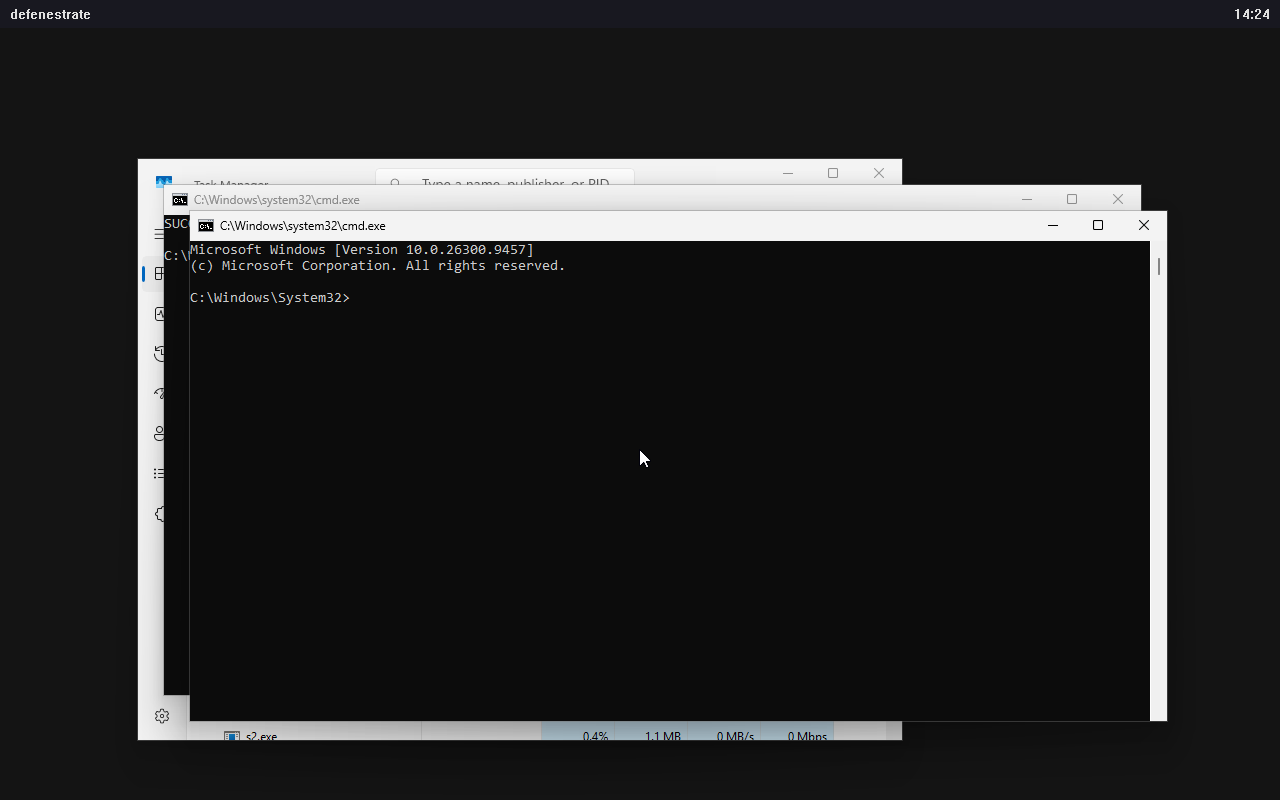
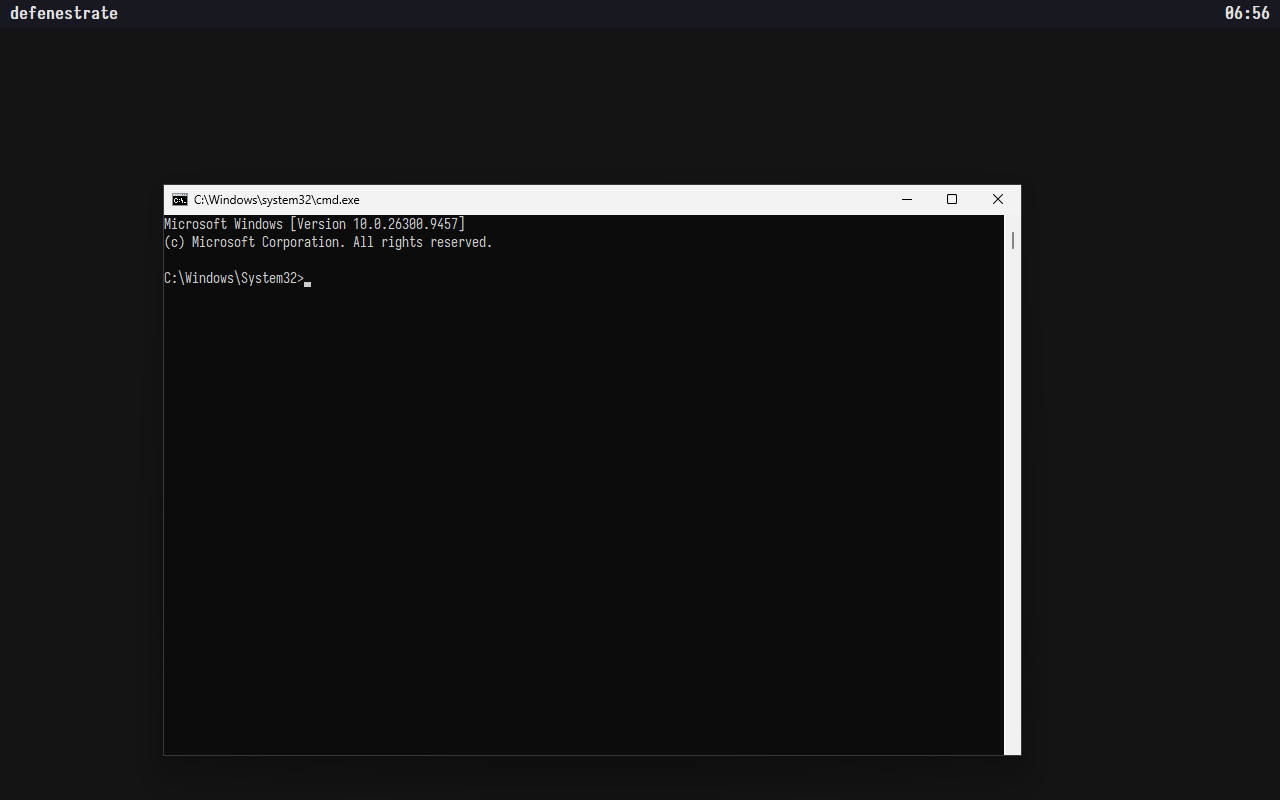
Console: keep conhost as the default terminal
Once Windows Terminal's package is registered for the user, Windows 11
hands new consoles to it, and Terminal ignores HKCU\Console, so cmd came
up in Cascadia Mono instead of Iosevka. Seen booting the flashed image in
QEMU; with %%Startup delegated to conhost, Win+Enter gives conhost in
Iosevka. New first-boot screenshot from that boot.

Changed region(s): [[0.0938, 0.1875, 0.9375, 0.9688], [0.0, 0.0, 0.0938, 0.0312], [0.9375, 0.0, 1.0, 0.0312]]

diff --git a/README.md b/README.md
@@ -7,7 +7,7 @@ the rest of Microsoft's opinions configured away.
 Everything is declared in `configs/` as typed Nix options: edition, locale,
 user, disk layout, replacement shell, and registry values per hive.
 
-![First boot: no explorer, our bar, Win+Enter opened a terminal](docs/first-boot.png)
+![First boot of a flashed image: no explorer, our bar, Win+Enter opened conhost, all in Iosevka](docs/first-boot.png)
 
 ## Status
 
@@ -17,12 +17,13 @@ user, disk layout, replacement shell, and registry values per hive.
 - [x] QEMU test VM with Secure Boot and TPM 2.0
 - [x] Verified install end to end in the VM: unattended setup, specialize registry import, OOBE, first-logon shell switch, our shell running with no explorer.exe
   - Fully hands-off offline (`restrict=on`): a headless run went from the ISO to our shell in ~47 minutes with no input. Online, OOBE's zero-day-patch check fails in the VM and waits for a "Skip" click. On real hardware: install offline, or hit "Try again".
-- [x] Rust shell v0, cross-compiled in the flake (`nix build .#shell`): top bar with a clock and reserved work area, Win+Enter opens a terminal (via a low-level keyboard hook; `RegisterHotKey` can't get Win+Enter even without explorer)
+- [x] Rust shell v0, cross-compiled in the flake (`nix build .#shell`): top bar with a clock and reserved work area, per-monitor DPI aware, Win+Enter opens a terminal (via a low-level keyboard hook; `RegisterHotKey` can't get Win+Enter even without explorer)
+- [x] Iosevka Nerd Font Mono installed system-wide (`fonts`) and used by the bar and every console. Windows 11 hands consoles to Windows Terminal once it's registered, which ignores console fonts, so the default terminal is pinned to conhost
 - [x] libcosmic builds for Windows from Linux (`nix build .#cosmic-bar-prototype`); not run on Windows yet
 - [ ] Shell: system tray, window list, launcher, notifications
 - [ ] Provisioned AppX removal (Outlook, Teams, Copilot, …)
 - [ ] WSL2 with a nix-built kernel and NixOS-WSL, mounting the Linux drives
-- [x] Whole-disk image built in the nix sandbox (`build.image`) and flashed from Linux with no boot media (`build.install`), replacing nixconf's `saturn-windows-image.sh`. Flash-and-boot verified on a disk-sized file; not yet on real hardware
+- [x] Whole-disk image built in the nix sandbox (`build.image`) and flashed from Linux with no boot media (`build.install`), replacing nixconf's `saturn-windows-image.sh`. Flash-and-boot verified on a disk-sized file, and booted to the shell on real hardware
 
 ## Usage
 
@@ -64,7 +65,7 @@ rebooting. The build then checks Windows Boot Manager is on the image's ESP
 and reads first logon's log straight off NTFS with sleuthkit, which also
 proves BitLocker didn't touch C:. Progress goes to the build log; a 20
 minute stall or 3 hours fails the build and leaves screenshots in the build
-dir for `--keep-failed`. ~10 minutes on a desktop. The disk is NVMe, so the
+dir for `--keep-failed`. ~10 minutes on an idle desktop; 65–75 on one shared with other heavy jobs. The disk is NVMe, so the
 image boots on a real NVMe controller through the same inbox driver, no
 sysprep.
 
